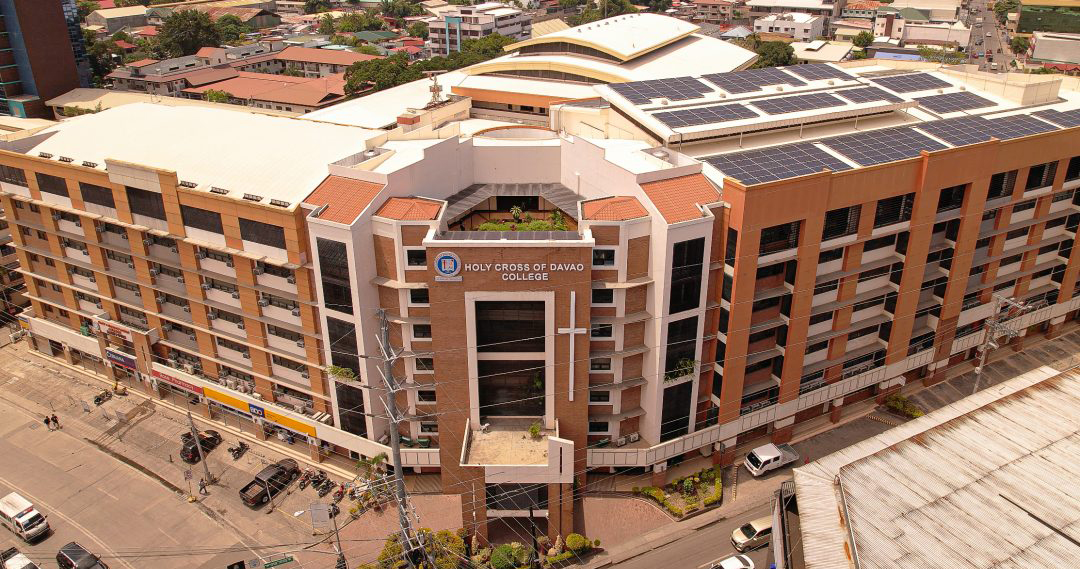
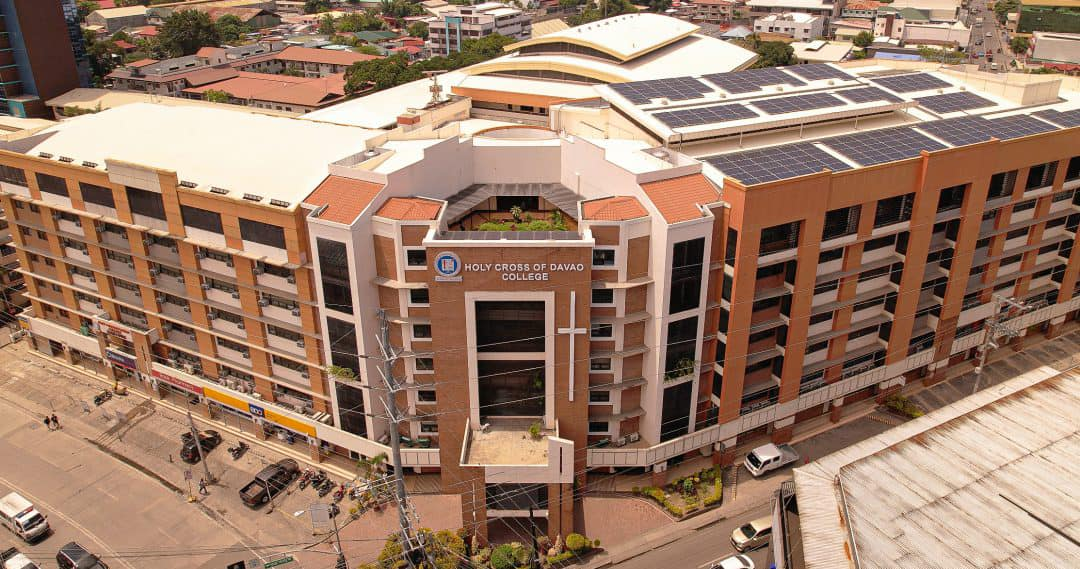
Speed: load pages on demand, smaller images, fewer live reloads
- Code splitting: every page is loaded the first time it's opened
  (React.lazy), and the landing page only for visitors who aren't signed
  in. Initial JS 1.63 MB -> 483 KB (416 -> 138 KB gzipped), initial CSS
  456 -> 244 KB. A thin loading bar shows while a page loads; inside the
  portals the sidebar stays put.
- Dropped the unused Bootstrap JS bundle (only its CSS is used).
- Images: HCDC logo 516 -> 55 KB (1500px -> 560px), footer photo
  567 -> 118 KB, background 331 -> 125 KB.
- Live updates no longer reload the Students, Student details/history
  and Employees pages on every login (they listened to profiles, which
  each sign-in updates); the one-minute check still catches new sign-ups.

diff --git a/src/App.jsx b/src/App.jsx
@@ -1,87 +1,93 @@
+import { lazy, Suspense } from 'react'
 import { BrowserRouter, Routes, Route } from 'react-router-dom'
+import PageLoading from './components/PageLoading'
+
+// Each page is downloaded the first time it's opened (code splitting), so
+// signing in doesn't mean downloading every page of every portal.
 
 import ProtectedRoute from './components/ProtectedRoute'
 import RequireFullEmployeeAccess from './components/RequireFullEmployeeAccess'
 import StudentVerificationGate from './components/StudentVerificationGate'
 import HomeRoute from './components/HomeRoute'
 
-import Login from './pages/auth/Login'
-import Register from './pages/auth/Register'
-import EmployeeRegister from './pages/auth/EmployeeRegister'
-import AuthCallback from './pages/auth/AuthCallback'
-import CompleteProfile from './pages/auth/CompleteProfile'
-import ForgotPassword from './pages/auth/ForgotPassword'
-import ResetPassword from './pages/auth/ResetPassword'
-import ForceChangePassword from './pages/auth/ForceChangePassword'
+const Login = lazy(() => import('./pages/auth/Login'))
+const Register = lazy(() => import('./pages/auth/Register'))
+const EmployeeRegister = lazy(() => import('./pages/auth/EmployeeRegister'))
+const AuthCallback = lazy(() => import('./pages/auth/AuthCallback'))
+const CompleteProfile = lazy(() => import('./pages/auth/CompleteProfile'))
+const ForgotPassword = lazy(() => import('./pages/auth/ForgotPassword'))
+const ResetPassword = lazy(() => import('./pages/auth/ResetPassword'))
+const ForceChangePassword = lazy(() => import('./pages/auth/ForceChangePassword'))
 
-import Terms from './pages/legal/Terms'
-import PrivacyPolicy from './pages/legal/PrivacyPolicy'
-import CookiePolicy from './pages/legal/CookiePolicy'
-import RefundPolicy from './pages/legal/RefundPolicy'
+const Terms = lazy(() => import('./pages/legal/Terms'))
+const PrivacyPolicy = lazy(() => import('./pages/legal/PrivacyPolicy'))
+const CookiePolicy = lazy(() => import('./pages/legal/CookiePolicy'))
+const RefundPolicy = lazy(() => import('./pages/legal/RefundPolicy'))
 
-import VerifyCredential from './pages/verify/VerifyCredential'
-import QueueDisplay from './pages/QueueDisplay'
+const VerifyCredential = lazy(() => import('./pages/verify/VerifyCredential'))
+const QueueDisplay = lazy(() => import('./pages/QueueDisplay'))
 
-import StudentLayout from './pages/student/StudentLayout'
-import Dashboard from './pages/student/Dashboard'
-import NewRequest from './pages/student/NewRequest'
-import MyRequest from './pages/student/MyRequest'
-import StudentRequestDetails from './pages/student/RequestDetails'
-import UploadReceipt from './pages/student/UploadReceipt'
-import UploadReceiptList from './pages/student/UploadReceiptList'
-import UploadRequirements from './pages/student/UploadRequirements'
-import StudentClaimSchedule from './pages/student/ClaimSchedule'
-import StudentMessages from './pages/student/Messages'
-import Notifications from './pages/student/Notifications'
-import Profile from './pages/student/Profile'
-import HelpSupport from './pages/student/HelpSupport'
-import StudentUserGuide from './pages/student/UserGuidePage'
-import EmployeeUserGuide from './pages/employee/UserGuidePage'
-import AdminUserGuide from './pages/admin/UserGuidePage'
+const StudentLayout = lazy(() => import('./pages/student/StudentLayout'))
+const Dashboard = lazy(() => import('./pages/student/Dashboard'))
+const NewRequest = lazy(() => import('./pages/student/NewRequest'))
+const MyRequest = lazy(() => import('./pages/student/MyRequest'))
+const StudentRequestDetails = lazy(() => import('./pages/student/RequestDetails'))
+const UploadReceipt = lazy(() => import('./pages/student/UploadReceipt'))
+const UploadReceiptList = lazy(() => import('./pages/student/UploadReceiptList'))
+const UploadRequirements = lazy(() => import('./pages/student/UploadRequirements'))
+const StudentClaimSchedule = lazy(() => import('./pages/student/ClaimSchedule'))
+const StudentMessages = lazy(() => import('./pages/student/Messages'))
+const Notifications = lazy(() => import('./pages/student/Notifications'))
+const Profile = lazy(() => import('./pages/student/Profile'))
+const HelpSupport = lazy(() => import('./pages/student/HelpSupport'))
+const StudentUserGuide = lazy(() => import('./pages/student/UserGuidePage'))
+const EmployeeUserGuide = lazy(() => import('./pages/employee/UserGuidePage'))
+const AdminUserGuide = lazy(() => import('./pages/admin/UserGuidePage'))
 
-import EmployeeLayout from './pages/employee/EmployeeLayout'
-import EmployeeDashboard from './pages/employee/Dashboard'
-import EmployeeRequestDetails from './pages/employee/RequestDetails'
-import ClaimSchedule from './pages/employee/ClaimSchedule'
-import AssignedRequests from './pages/employee/AssignedRequests'
-import RequestVerification from './pages/employee/RequestVerification'
-import DocumentProcessing from './pages/employee/DocumentProcessing'
-import ClaimScheduleList from './pages/employee/ClaimScheduleList'
-import EmployeeOfficeCalendar from './pages/employee/OfficeCalendar'
-import EmployeeStudents from './pages/employee/Students'
-import StudentHistory from './pages/employee/StudentHistory'
-import EmployeeMessages from './pages/employee/Messages'
-import EmployeeNotifications from './pages/employee/Notifications'
-import ActivityLogs from './pages/employee/ActivityLogs'
-import EmployeeQueue from './pages/employee/Queue'
-import EmployeeProfile from './pages/employee/Profile'
+const EmployeeLayout = lazy(() => import('./pages/employee/EmployeeLayout'))
+const EmployeeDashboard = lazy(() => import('./pages/employee/Dashboard'))
+const EmployeeRequestDetails = lazy(() => import('./pages/employee/RequestDetails'))
+const ClaimSchedule = lazy(() => import('./pages/employee/ClaimSchedule'))
+const AssignedRequests = lazy(() => import('./pages/employee/AssignedRequests'))
+const RequestVerification = lazy(() => import('./pages/employee/RequestVerification'))
+const DocumentProcessing = lazy(() => import('./pages/employee/DocumentProcessing'))
+const ClaimScheduleList = lazy(() => import('./pages/employee/ClaimScheduleList'))
+const EmployeeOfficeCalendar = lazy(() => import('./pages/employee/OfficeCalendar'))
+const EmployeeStudents = lazy(() => import('./pages/employee/Students'))
+const StudentHistory = lazy(() => import('./pages/employee/StudentHistory'))
+const EmployeeMessages = lazy(() => import('./pages/employee/Messages'))
+const EmployeeNotifications = lazy(() => import('./pages/employee/Notifications'))
+const ActivityLogs = lazy(() => import('./pages/employee/ActivityLogs'))
+const EmployeeQueue = lazy(() => import('./pages/employee/Queue'))
+const EmployeeProfile = lazy(() => import('./pages/employee/Profile'))
 
-import AdminLayout from './pages/admin/AdminLayout'
-import AdminDashboard from './pages/admin/Dashboard'
-import AllRequests from './pages/admin/AllRequests'
-import AdminRequestDetails from './pages/admin/RequestDetails'
-import Assignments from './pages/admin/Assignments'
-import AdminEmployees from './pages/admin/Employees'
-import EmployeeDetails from './pages/admin/EmployeeDetails'
-import AdminStudents from './pages/admin/Students'
-import AdminStudentDetails from './pages/admin/StudentDetails'
-import AdminDocuments from './pages/admin/Documents'
-import Announcements from './pages/admin/Announcements'
-import CollegesPrograms from './pages/admin/CollegesPrograms'
-import AdminClaimSchedules from './pages/admin/ClaimSchedules'
-import OfficeCalendar from './pages/admin/OfficeCalendar'
-import AdminQueue from './pages/admin/Queue'
-import AdminClaimSchedule from './pages/admin/ClaimSchedule'
-import OfficialReceipts from './pages/admin/OfficialReceipts'
-import AdminMessages from './pages/admin/Messages'
-import AdminNotifications from './pages/admin/Notifications'
-import AdminActivityLogs from './pages/admin/ActivityLogs'
-import Reports from './pages/admin/Reports'
-import AdminProfile from './pages/admin/Profile'
+const AdminLayout = lazy(() => import('./pages/admin/AdminLayout'))
+const AdminDashboard = lazy(() => import('./pages/admin/Dashboard'))
+const AllRequests = lazy(() => import('./pages/admin/AllRequests'))
+const AdminRequestDetails = lazy(() => import('./pages/admin/RequestDetails'))
+const Assignments = lazy(() => import('./pages/admin/Assignments'))
+const AdminEmployees = lazy(() => import('./pages/admin/Employees'))
+const EmployeeDetails = lazy(() => import('./pages/admin/EmployeeDetails'))
+const AdminStudents = lazy(() => import('./pages/admin/Students'))
+const AdminStudentDetails = lazy(() => import('./pages/admin/StudentDetails'))
+const AdminDocuments = lazy(() => import('./pages/admin/Documents'))
+const Announcements = lazy(() => import('./pages/admin/Announcements'))
+const CollegesPrograms = lazy(() => import('./pages/admin/CollegesPrograms'))
+const AdminClaimSchedules = lazy(() => import('./pages/admin/ClaimSchedules'))
+const OfficeCalendar = lazy(() => import('./pages/admin/OfficeCalendar'))
+const AdminQueue = lazy(() => import('./pages/admin/Queue'))
+const AdminClaimSchedule = lazy(() => import('./pages/admin/ClaimSchedule'))
+const OfficialReceipts = lazy(() => import('./pages/admin/OfficialReceipts'))
+const AdminMessages = lazy(() => import('./pages/admin/Messages'))
+const AdminNotifications = lazy(() => import('./pages/admin/Notifications'))
+const AdminActivityLogs = lazy(() => import('./pages/admin/ActivityLogs'))
+const Reports = lazy(() => import('./pages/admin/Reports'))
+const AdminProfile = lazy(() => import('./pages/admin/Profile'))
 
 function App() {
   return (
     <BrowserRouter>
+      <Suspense fallback={<PageLoading />}>
       <Routes>
 
         <Route
@@ -462,6 +468,7 @@ function App() {
         </Route>
 
       </Routes>
+      </Suspense>
     </BrowserRouter>
   )
 }

diff --git a/src/pages/employee/EmployeeLayout.jsx b/src/pages/employee/EmployeeLayout.jsx
@@ -1,4 +1,4 @@
-import { useEffect, useState } from 'react'
+import { Suspense, useEffect, useState } from 'react'
 import { Link, NavLink, Outlet, useNavigate } from 'react-router-dom'
 import { supabase } from '../../lib/supabase'
 import hcdcLogo from '../../assets/hcdc-logo.png'
@@ -13,6 +13,7 @@ import '../../components/PortalUi.css'
 import { EMPLOYEE_TOUR } from '../../lib/tourSteps'
 import './EmployeeLayout.css'
 import { useLiveRefresh } from '../../lib/useLiveRefresh'
+import PageLoading from '../../components/PageLoading'
 
 const NAV_ITEMS = [
     { to: '/employee/dashboard', label: 'Dashboard', icon: <IconHome />, end: true },
@@ -222,7 +223,7 @@ function EmployeeLayout() {
             </aside>
 
             <main className="employee-content">
-                <Outlet />
+                <Suspense fallback={<PageLoading inline />}><Outlet /></Suspense>
             </main>
 
             <ProductTour role="employee" steps={EMPLOYEE_TOUR} />

diff --git a/src/pages/admin/AdminLayout.jsx b/src/pages/admin/AdminLayout.jsx
@@ -1,4 +1,4 @@
-import { useEffect, useState } from 'react'
+import { Suspense, useEffect, useState } from 'react'
 import { Link, NavLink, Outlet, useNavigate } from 'react-router-dom'
 import { supabase } from '../../lib/supabase'
 import hcdcLogo from '../../assets/hcdc-logo.png'
@@ -10,6 +10,7 @@ import ProductTour from '../../components/ProductTour'
 import { HEAD_TOUR } from '../../lib/tourSteps'
 import './AdminLayout.css'
 import { useLiveRefresh } from '../../lib/useLiveRefresh'
+import PageLoading from '../../components/PageLoading'
 
 const NAV_ITEMS = [
     { to: '/admin/dashboard', label: 'Dashboard', icon: <IconHome />, end: true },
@@ -213,7 +214,7 @@ function AdminLayout() {
             </aside>
 
             <main className="admin-content">
-                <Outlet />
+                <Suspense fallback={<PageLoading inline />}><Outlet /></Suspense>
             </main>
 
             <ProductTour role="head" steps={HEAD_TOUR} />

diff --git a/src/pages/student/StudentLayout.jsx b/src/pages/student/StudentLayout.jsx
@@ -1,4 +1,4 @@
-import { useEffect, useState } from 'react'
+import { Suspense, useEffect, useState } from 'react'
 import { Link, NavLink, Outlet, useNavigate } from 'react-router-dom'
 import Swal from 'sweetalert2'
 import { supabase } from '../../lib/supabase'
@@ -27,6 +27,7 @@ import '../../components/PortalUi.css'
 import { STUDENT_TOUR } from '../../lib/tourSteps'
 import './StudentLayout.css'
 import { useLiveRefresh } from '../../lib/useLiveRefresh'
+import PageLoading from '../../components/PageLoading'
 
 const NAV_ITEMS = [
     { to: '/student/dashboard', label: 'Dashboard', icon: <IconHome />, end: true },
@@ -262,7 +263,7 @@ function StudentLayout() {
             </aside>
 
             <main className="student-content">
-                <Outlet />
+                <Suspense fallback={<PageLoading inline />}><Outlet /></Suspense>
             </main>
 
             <ProductTour role="student" steps={STUDENT_TOUR} />

diff --git a/src/components/HomeRoute.jsx b/src/components/HomeRoute.jsx
@@ -1,8 +1,11 @@
-import { useEffect, useState } from 'react'
+import { lazy, Suspense, useEffect, useState } from 'react'
 import { Navigate } from 'react-router-dom'
 import { supabase } from '../lib/supabase'
 import { dashboardPathForRole } from '../lib/roleRedirect'
-import LandingPage from '../pages/LandingPage/LandingPage'
+import PageLoading from './PageLoading'
+
+// Only visitors who aren't signed in see the landing page, so load it then.
+const LandingPage = lazy(() => import('../pages/LandingPage/LandingPage'))
 
 function HomeRoute() {
     const [checking, setChecking] = useState(true)
@@ -49,7 +52,7 @@ function HomeRoute() {
 
     if (redirectTo) return <Navigate to={redirectTo} replace />
 
-    return <LandingPage />
+    return <Suspense fallback={<PageLoading />}><LandingPage /></Suspense>
 }
 
 export default HomeRoute

diff --git a/src/components/PageLoading.css b/src/components/PageLoading.css
@@ -1,0 +1,39 @@
+.page-loading {
+    position: fixed;
+    top: 0;
+    left: 0;
+    right: 0;
+    z-index: 2000;
+    height: 3px;
+    overflow: hidden;
+    background: transparent;
+}
+
+.page-loading.is-inline {
+    position: relative;
+    z-index: auto;
+    margin: -4px 0 16px;
+    border-radius: 3px;
+}
+
+.page-loading-bar {
+    display: block;
+    width: 40%;
+    height: 100%;
+    border-radius: 3px;
+    background: linear-gradient(90deg, #123B78, #C8102E);
+    animation: page-loading-slide 1s ease-in-out infinite;
+}
+
+@keyframes page-loading-slide {
+    from { transform: translateX(-100%); }
+    to { transform: translateX(250%); }
+}
+
+@media (prefers-reduced-motion: reduce) {
+    .page-loading-bar {
+        width: 100%;
+        animation: none;
+        opacity: 0.6;
+    }
+}

diff --git a/src/pages/employee/Students.jsx b/src/pages/employee/Students.jsx
@@ -29,7 +29,7 @@ function Students() {
     const [reviewingId, setReviewingId] = useState(null)
     const [selectedProgramKey, setSelectedProgramKey] = useState(null)
 
-    useLiveRefresh(['students', 'profiles'], () => { loadPendingVerifications(); if (!term.trim()) loadAllStudents({ silent: true }) })
+    useLiveRefresh(['students'], () => { loadPendingVerifications(); if (!term.trim()) loadAllStudents({ silent: true }) })
 
     useEffect(() => {
         loadAllStudents()

diff --git a/src/pages/admin/Students.jsx b/src/pages/admin/Students.jsx
@@ -35,7 +35,7 @@ function Students() {
     const [selectedProgramKey, setSelectedProgramKey] = useState(null)
     const [yearLevelFilter, setYearLevelFilter] = useState('all')
 
-    useLiveRefresh(['students', 'profiles'], () => { loadAllStudents({ silent: true }); loadPendingVerifications() })
+    useLiveRefresh(['students'], () => { loadAllStudents({ silent: true }); loadPendingVerifications() })
 
     useEffect(() => {
         loadAllStudents()

diff --git a/src/components/PageLoading.jsx b/src/components/PageLoading.jsx
@@ -1,0 +1,13 @@
+import './PageLoading.css'
+
+// Shown while a page's code downloads (see App.jsx). Inside a portal layout
+// only the content area shows it, so the sidebar stays put.
+function PageLoading({ inline = false }) {
+    return (
+        <div className={`page-loading${inline ? ' is-inline' : ''}`} role="status" aria-label="Loading">
+            <span className="page-loading-bar" />
+        </div>
+    )
+}
+
+export default PageLoading

diff --git a/src/pages/admin/StudentDetails.jsx b/src/pages/admin/StudentDetails.jsx
@@ -48,7 +48,7 @@ function StudentDetails() {
     const [changingEmail, setChangingEmail] = useState(false)
     const [currentRole, setCurrentRole] = useState('')
 
-    useLiveRefresh(['students', 'profiles', 'document_requests', 'request_requirements'], (options) => loadDetails(options))
+    useLiveRefresh(['students', 'document_requests', 'request_requirements'], (options) => loadDetails(options))
 
     useEffect(() => {
         loadDetails()

diff --git a/src/pages/employee/StudentHistory.jsx b/src/pages/employee/StudentHistory.jsx
@@ -36,7 +36,7 @@ function StudentHistory() {
     const [resettingPassword, setResettingPassword] = useState(false)
     const [changingEmail, setChangingEmail] = useState(false)
 
-    useLiveRefresh(['students', 'profiles', 'document_requests'], (options) => loadHistory(options))
+    useLiveRefresh(['students', 'document_requests'], (options) => loadHistory(options))
 
     useEffect(() => {
         loadHistory()

diff --git a/src/pages/admin/Employees.jsx b/src/pages/admin/Employees.jsx
@@ -44,7 +44,7 @@ function Employees() {
     const [addError, setAddError] = useState('')
     const [addMessage, setAddMessage] = useState('')
 
-    useLiveRefresh(['employees', 'employee_assignments', 'profiles'], (options) => loadEmployees(options))
+    useLiveRefresh(['employees', 'employee_assignments'], (options) => loadEmployees(options))
 
     useEffect(() => {
         loadEmployees()
